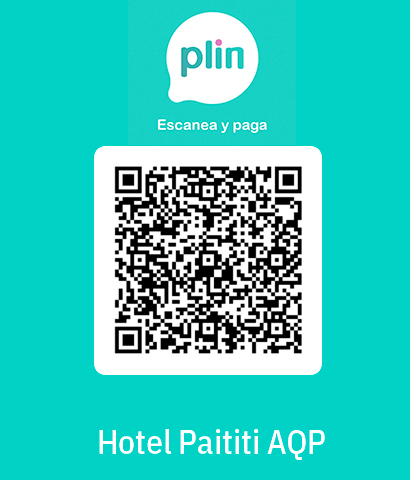
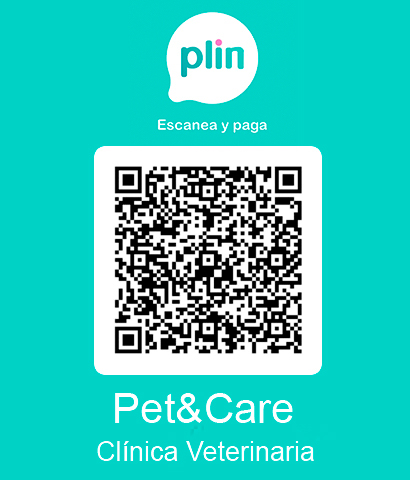
VariosCambios
Cambio de foto de yape y plin
Actividad recien actualizado con la nueva bd que tiene recompensas
La contraseña ya esta con tipo pass en crear cuenta de veterinario (falta logica adicional)

Changed region(s): [[0.322, 0.0, 0.7317, 0.3125], [0.2341, 0.8125, 0.7902, 0.9688]]

diff --git a/controlador/conexion.php b/controlador/conexion.php
@@ -486,13 +486,12 @@ function actualizarServicios($idproductoservicio, $nombre,$precio,$descripcion,$
 
 //Funcion para listar el detalle de puntos por producto o servicio adquirido desde pagina principal de cliente
 function listarDetallePuntosCliente($idCliente, $conn) {
-    $sql = "SELECT productoservicio.nombre, venta.fecha, productoservicio.precio, detalleventa.cantidad, venta.total, puntoscliente.puntos 
+    $sql = "SELECT productoservicio.nombre, detalleventa.fecha, productoservicio.precio, detalleventa.cantidad, detalleventa.importe, puntoscliente.puntos 
             FROM puntoscliente
-            JOIN detalleventa ON puntoscliente.iddetalleventa = detalleventa.iddetalleventa
-            JOIN venta ON detalleventa.idventa = venta.idventa
+            JOIN detalleventa ON puntoscliente.iddetalleventa = detalleventa.iddetalleventa        
             JOIN productoservicio ON detalleventa.idproductoservicio = productoservicio.idproductoservicio
-            WHERE venta.idcliente = '$idCliente'
-            ORDER BY venta.fecha DESC
+            WHERE detalleventa.idcliente = '$idCliente'
+            ORDER BY detalleventa.fecha DESC
             LIMIT 3";
     
     $result = mysqli_query($conn, $sql);

diff --git a/pages/Administrador/administradorAccounts/administradorAccounts.php b/pages/Administrador/administradorAccounts/administradorAccounts.php
@@ -80,7 +80,7 @@ foreach (listarAdministrador($email, $conn) as $key => $value) {
                                         <label for="email">Correo electrónico:</label>
                                     </div>
                                     <div class="form-floating mt-3 mb-3">
-                                        <input id="inputContraseña" type="text" class="form-control" id="pwd"
+                                        <input id="inputContraseña" type="password" class="form-control" id="pwd"
                                             placeholder="Enter password" name="contraseniaNueva" required>
                                         <label for="pwd">Contraseña</label>
                                     </div>

diff --git a/pages/Cliente/clienteIndex/cliente.php b/pages/Cliente/clienteIndex/cliente.php
@@ -207,7 +207,7 @@ $mascotas = listarDatosMascotaDasboardCliente($idCliente, $conn);
                             $fecha = $detalle['fecha'];
                             $precio = $detalle['precio'];
                             $cantidad = $detalle['cantidad'];
-                            $total = $detalle['total'];
+                            $total = $detalle['importe'];
                             $puntos = $detalle['puntos'];
                         ?>
                             <div class="scheme">
